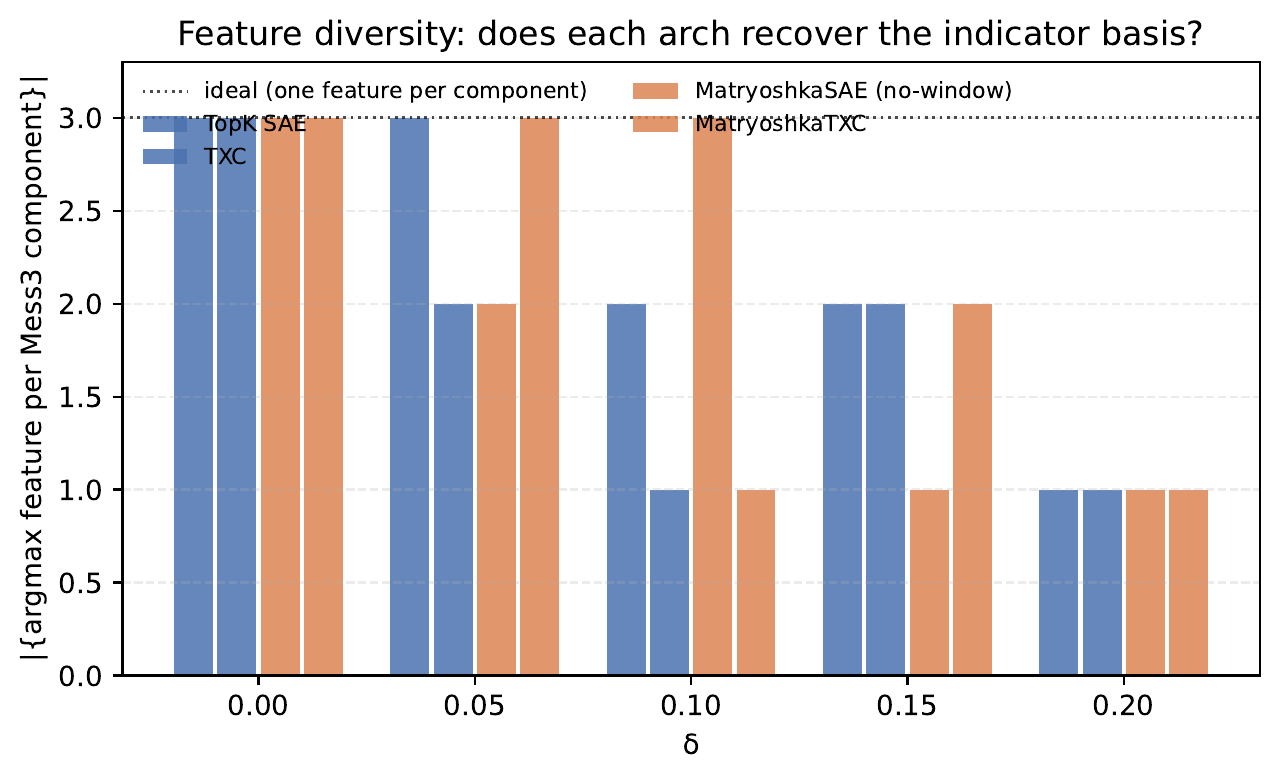
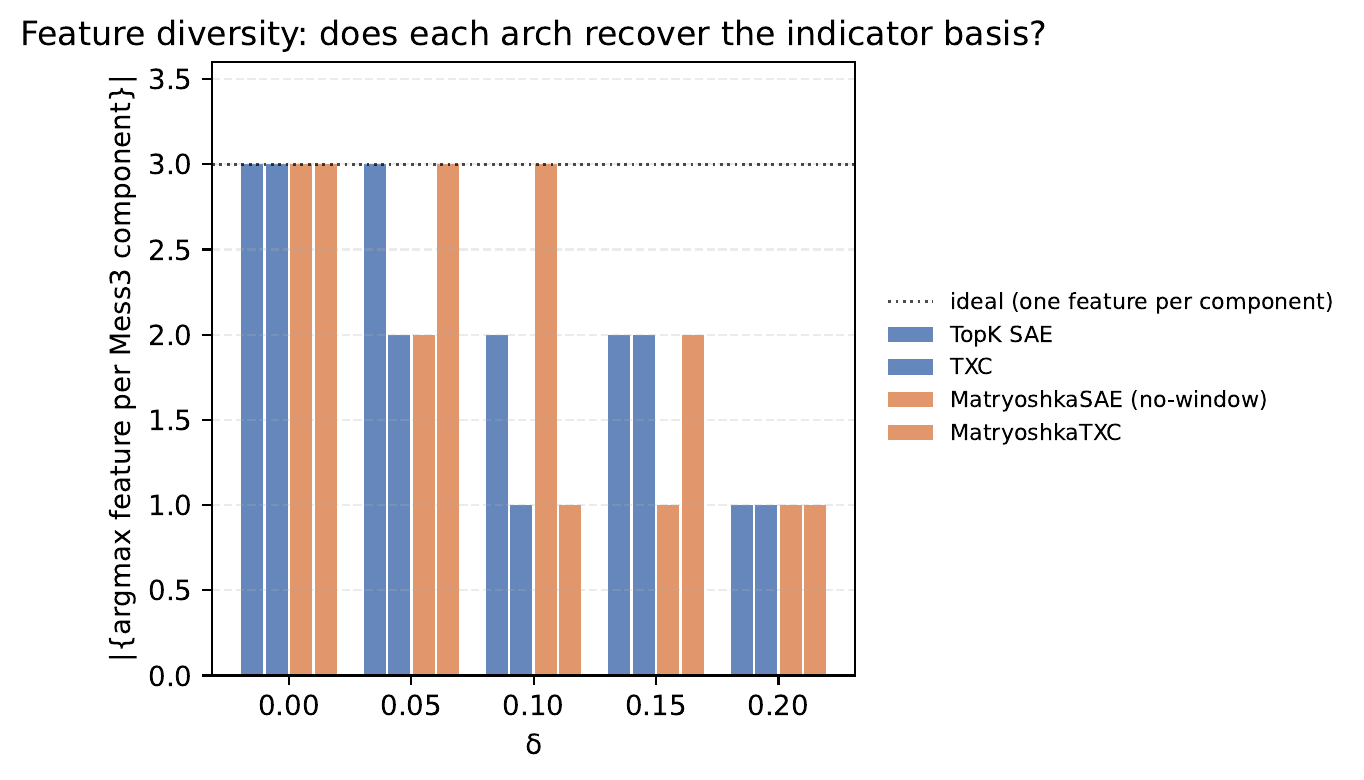
Move plot legends outside axes so they don't obscure data

diff --git a/experiments/mess3_mat_ablation/plot_ablation.py b/experiments/mess3_mat_ablation/plot_ablation.py
@@ -132,7 +132,11 @@ def plot_gap_recovery(results: dict[float, dict], ceiling: dict[float, float], o
     ax.set_ylabel(ylabel)
     ax.set_ylim(-0.05, 1.1 if ceiling else None)
     ax.set_title("Mess3: Mat-TopK-SAE ablation — 2×2 on matryoshka × temporal window")
-    ax.legend(loc="upper left", fontsize=8, frameon=False)
+    # Legend outside the axes so it never overlaps the curves (which
+    # rise into the upper-right and used to collide with an upper-left
+    # legend at low δ values).
+    ax.legend(loc="center left", bbox_to_anchor=(1.02, 0.5),
+              fontsize=8, frameon=False)
     ax.grid(True, alpha=0.25, linestyle="--")
     fig.tight_layout()
     fig.savefig(out_path, format="pdf", bbox_inches="tight")
@@ -189,8 +193,11 @@ def plot_feature_diversity(results: dict[float, dict], out_path: Path) -> None:
     ax.set_xlabel("δ")
     ax.set_ylabel("|{argmax feature per Mess3 component}|")
     ax.set_title("Feature diversity: does each arch recover the indicator basis?")
-    ax.set_ylim(0, 3.3)
-    ax.legend(loc="upper left", fontsize=8, frameon=False, ncol=2)
+    ax.set_ylim(0, 3.6)
+    # Legend outside the axes — bars at δ=0 reach the top (diversity=3)
+    # and any in-axes legend collides with them.
+    ax.legend(loc="center left", bbox_to_anchor=(1.02, 0.5),
+              fontsize=8, frameon=False)
     ax.grid(True, axis="y", alpha=0.25, linestyle="--")
     fig.tight_layout()
     fig.savefig(out_path, format="pdf", bbox_inches="tight")
